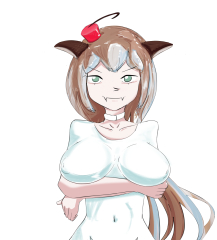
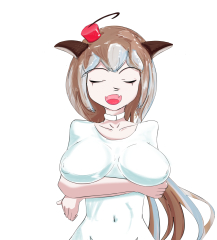
New Auu poses!!

Changed region(s): [[0.3871, 0.2625, 0.4977, 0.35], [0.553, 0.2625, 0.6359, 0.35], [0.47, 0.3792, 0.5806, 0.4375]]

diff --git a/EMQ/Server/Hubs/QuizHub.cs b/EMQ/Server/Hubs/QuizHub.cs
@@ -14,8 +14,9 @@ namespace EMQ.Server.Hubs
     {
         public override Task OnConnectedAsync()
         {
-            var session =
-                ServerState.Sessions.Find(x => Context.GetHttpContext()!.Request.Query["access_token"] == x.Token);
+            var accessToken = Context.GetHttpContext()!.Request.Query["access_token"];
+
+            var session = ServerState.Sessions.Find(x => accessToken == x.Token);
             if (session != null)
             {
                 if (session.ConnectionId != null)
@@ -39,7 +40,7 @@ namespace EMQ.Server.Hubs
             }
             else
             {
-                throw new Exception();
+                Console.WriteLine($"Player session wasn't found for token {accessToken}");
             }
 
             return base.OnConnectedAsync();
